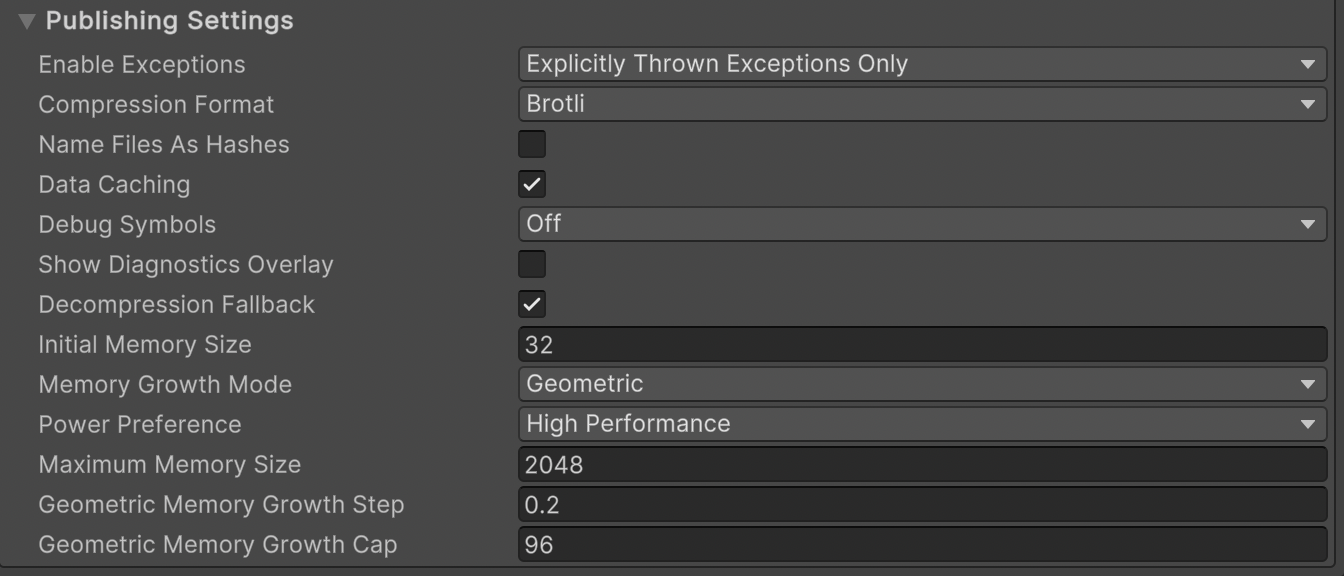
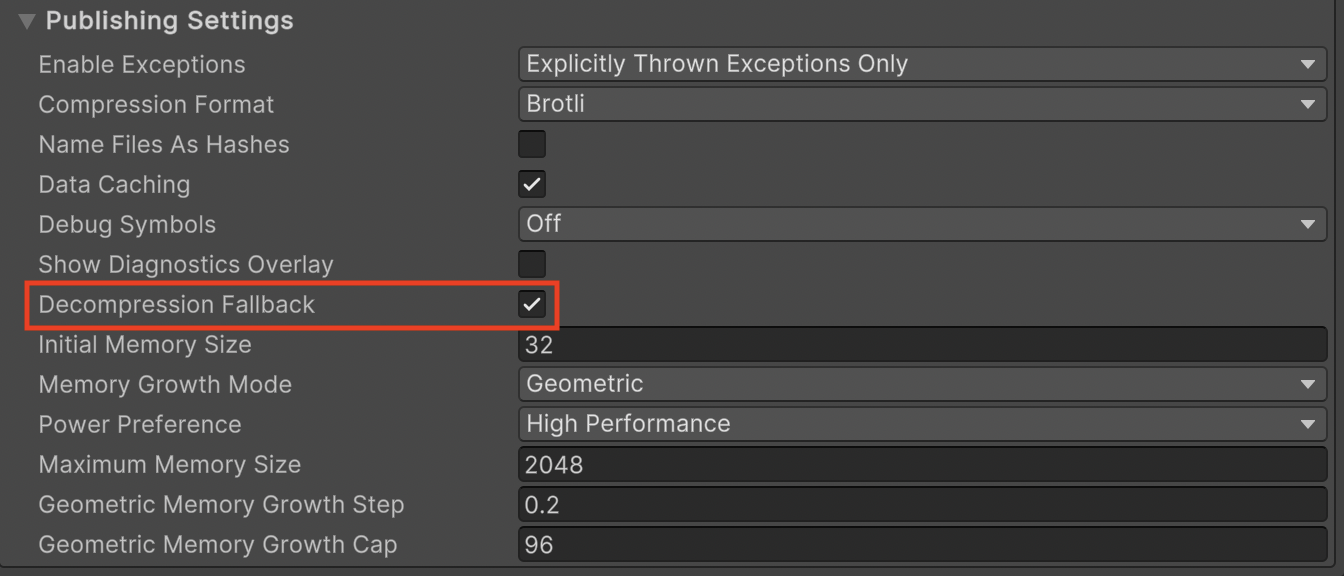
perf: readme

Changed region(s): [[0.0, 0.4688, 0.4375, 0.5938]]

diff --git a/README.md b/README.md
@@ -13,3 +13,16 @@
   Under `Edit -> Project Setting -> Player -> Resolution and Presentation`, you can find the newly imported templated to be selected.
 
   ![](https://github.com/ZhengYiHu/WebGL_Fullscreen_Template/blob/main/~ReadMeMedia/SelectTemplate.png)
+
+  Make sure that [Decompression Fallback](https://docs.unity3d.com/Manual/webgl-deploying.html) is enabled in `Edit -> Project Setting -> Player -> Publishing Settings -> Decompression Fallback` while using the default compression settings.
+  
+  ![](https://github.com/ZhengYiHu/WebGL_Fullscreen_Template/blob/main/~ReadMeMedia/PublishingSettings.png)
+
+  And Build the Game `File -> Build Settings -> WebGL5 -> Build`
+  
+  ![](https://github.com/ZhengYiHu/WebGL_Fullscreen_Template/blob/main/~ReadMeMedia/BuildSettings.png).
+
+  ## Customization
+
+  You can customize the favicon by replacing `FullScreen -> TemplateData -> favicon.ico` and the initial loading background under `Edit -> Project Setting -> Player -> Splash Image`.
+  Further customization is also possible by modifying `index.html` and `TemplateData -> style.css` manually.
